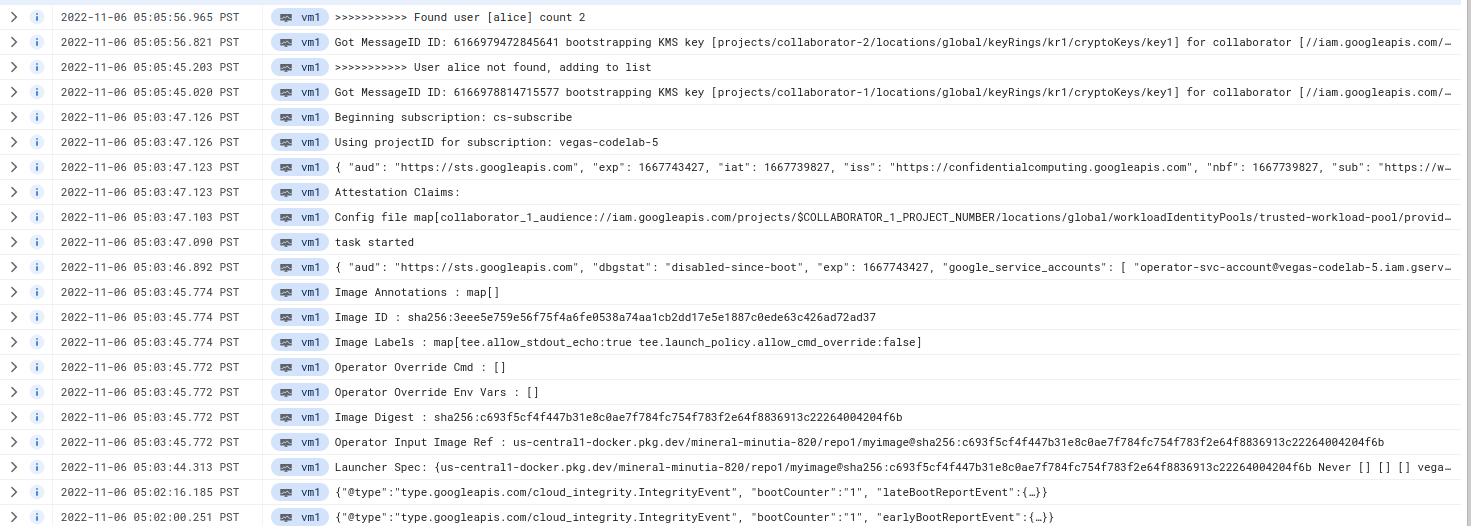
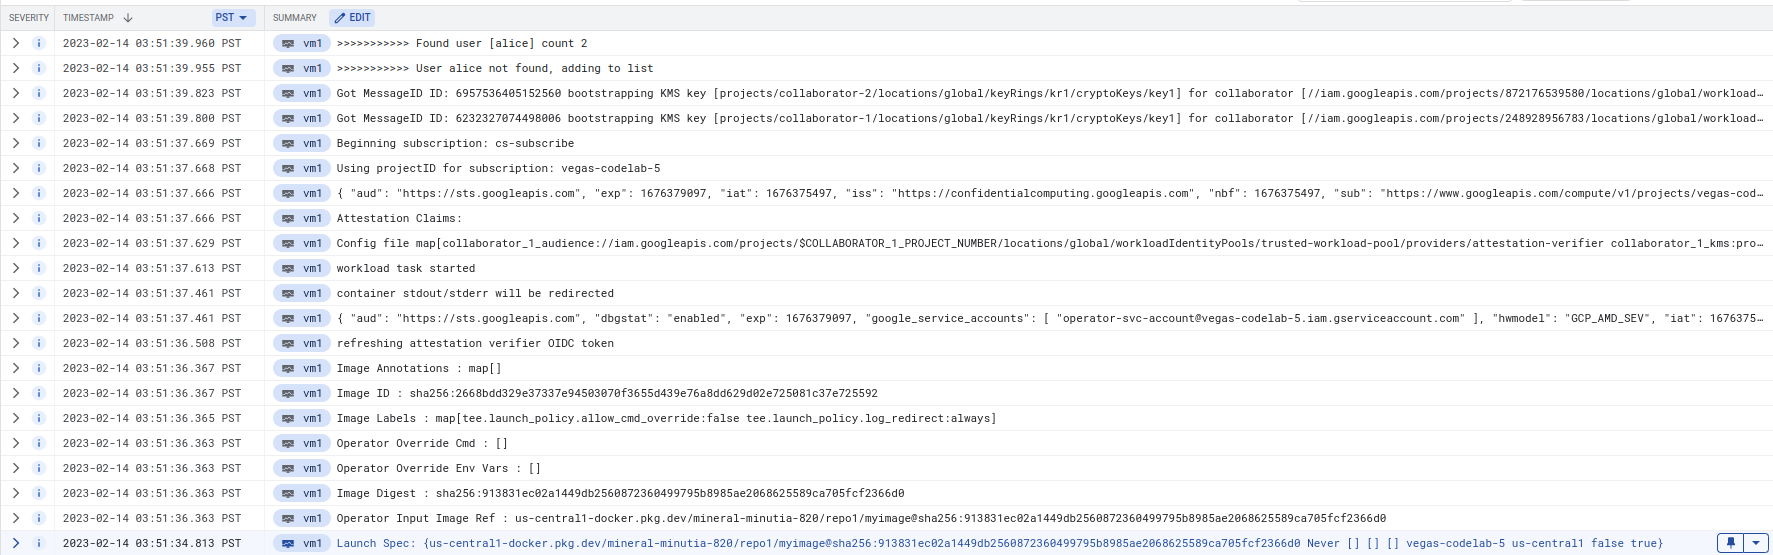
update imagehash; debug image

Changed region(s): [[0.0, 0.0, 1.0, 1.0], [0.7342, 0.0, 0.9177, 0.0304]]

diff --git a/app/main.go b/app/main.go
@@ -31,7 +31,7 @@ var (
 
 const (
 	subscription = "cs-subscribe" // the subscription where both collaborators submit messages; you could also setup 1 topic/subscription for each collaborator as well
-	jwksURL      = "https://confidentialcomputing.googleapis.com/.well-known/jwks"
+	jwksURL      = "https://www.googleapis.com/service_accounts/v1/metadata/jwk/signer@confidentialspace-sign.iam.gserviceaccount.com"
 )
 
 func main() {

diff --git a/README.md b/README.md
@@ -84,6 +84,7 @@ gcloud config configurations create builder
 gcloud config set account builder@builder-domain.com
 gcloud config set project YOUR_BUILDER_PROJECT_ID
 
+gcloud config configurations activate builder
 export BUILDER_PROJECT_ID=`gcloud config get-value core/project`
 export BUILDER_PROJECT_NUMBER=`gcloud projects describe $BUILDER_PROJECT_ID --format='value(projectNumber)'`
 
@@ -92,6 +93,7 @@ gcloud config configurations create operator
 gcloud config set account operatior@operator-domain.com
 gcloud config set project YOUR_OPERATOR_PROJECT_ID
 
+gcloud config configurations activate operator
 export OPERATOR_PROJECT_ID=`gcloud config get-value core/project`
 export OPERATOR_PROJECT_NUMBER=`gcloud projects describe $OPERATOR_PROJECT_ID --format='value(projectNumber)'`
 
@@ -100,6 +102,7 @@ gcloud config configurations create collaborator-1
 gcloud config set account admin@collaborator1-domain.com
 gcloud config set project YOUR_COLLABORATOR_1_PROJECT
 
+gcloud config configurations activate collaborator-1
 export COLLABORATOR_1_PROJECT_ID=`gcloud config get-value core/project`
 export COLLABORATOR_1_PROJECT_NUMBER=`gcloud projects describe $COLLABORATOR_1_PROJECT_ID --format='value(projectNumber)'`
 
@@ -108,6 +111,7 @@ gcloud config configurations create collaborator-2
 gcloud config set account admin@collaborator2-domain.com
 gcloud config set project YOUR_COLLABORATOR_2_PROJECT
 
+gcloud config configurations activate collaborator-1
 export COLLABORATOR_2_PROJECT_ID=`gcloud config get-value core/project`
 export COLLABORATOR_2_PROJECT_NUMBER=`gcloud projects describe $COLLABORATOR_2_PROJECT_ID --format='value(projectNumber)'`
 
@@ -127,7 +131,7 @@ The technique used in this example uses `bazel` to create reproducible container
 
 You don't _have to_ use bazel to build an image (you can just use the `Dockerfile` provided in this example).  If you don't use bazel, you'll get a different image hash though. 
 
-In this example using bazel, the code will always produce a hash of `myimage@sha256:c693f5cf4f447b31e8c0ae7f784fc754f783f2e64f8836913c22264004204f6b`
+In this example using bazel, the code will always produce a hash of `myimage@sha256:913831ec02a1449db2560872360499795b8985ae2068625589ca705fcf2366d0`
 
 For more info, see
 
@@ -261,7 +265,7 @@ gcloud alpha builds list
 # pull the image.  you should see the exact same image hash
 docker pull us-central1-docker.pkg.dev/$BUILDER_PROJECT_ID/repo1/myimage:server
 docker inspect us-central1-docker.pkg.dev/$BUILDER_PROJECT_ID/repo1/myimage:server | jq -r '.[].RepoDigests[]'
-docker inspect us-central1-docker.pkg.dev/$BUILDER_PROJECT_ID/repo1/myimage@sha256:c693f5cf4f447b31e8c0ae7f784fc754f783f2e64f8836913c22264004204f6b
+docker inspect us-central1-docker.pkg.dev/$BUILDER_PROJECT_ID/repo1/myimage@sha256:913831ec02a1449db2560872360499795b8985ae2068625589ca705fcf2366d0
 ```
 
 The cloud build step should give this specific hash
@@ -278,18 +282,22 @@ To check the cosign signatures and attestations, install cosign and then:
 ### verify with cosign
 ## first login to adc as the builder
 ## gcloud auth application-default login
-$ cosign tree      us-central1-docker.pkg.dev/$BUILDER_PROJECT_ID/repo1/myimage@sha256:c693f5cf4f447b31e8c0ae7f784fc754f783f2e64f8836913c22264004204f6b  
+$ cosign tree      us-central1-docker.pkg.dev/$BUILDER_PROJECT_ID/repo1/myimage@sha256:913831ec02a1449db2560872360499795b8985ae2068625589ca705fcf2366d0  
 
-📦 Supply Chain Security Related artifacts for an image: us-central1-docker.pkg.dev/mineral-minutia-820/repo1/myimage@sha256:c693f5cf4f447b31e8c0ae7f784fc754f783f2e64f8836913c22264004204f6b
-└── 💾 Attestations for an image tag: us-central1-docker.pkg.dev/mineral-minutia-820/repo1/myimage:sha256-c693f5cf4f447b31e8c0ae7f784fc754f783f2e64f8836913c22264004204f6b.att
-   └── 🍒 sha256:7999d5510526de794f735c6fa82b1d5dc51b18db671bd77e1b8c0d9a4774ef3f
-└── 🔐 Signatures for an image tag: us-central1-docker.pkg.dev/mineral-minutia-820/repo1/myimage:sha256-c693f5cf4f447b31e8c0ae7f784fc754f783f2e64f8836913c22264004204f6b.sig
-   └── 🍒 sha256:5a150ce6ecec13cb087069eb88183deaecd4dfd17107b41dd62c5c525c8de456
+📦 Supply Chain Security Related artifacts for an image: us-central1-docker.pkg.dev/mineral-minutia-820/repo1/myimage@sha256:913831ec02a1449db2560872360499795b8985ae2068625589ca705fcf2366d0
+└── 💾 Attestations for an image tag: us-central1-docker.pkg.dev/mineral-minutia-820/repo1/myimage:sha256-913831ec02a1449db2560872360499795b8985ae2068625589ca705fcf2366d0.att
+   └── 🍒 sha256:8a2d57eaaf4eb3e928d6f71673e7106d634e6760a8bbd3bcc856d6666693bfaa
+└── 🔐 Signatures for an image tag: us-central1-docker.pkg.dev/mineral-minutia-820/repo1/myimage:sha256-913831ec02a1449db2560872360499795b8985ae2068625589ca705fcf2366d0.sig
+   └── 🍒 sha256:6c207c107481066935b8fe91bdcfd0d2105d240dfa4c143aec8ad0dfa9312463
 ```
 
 which will exist as additional artifacts in the registry
 
 ![images/artifacts.png](images/artifacts.png)
+
+and manifest
+
+![images/manifest.png](images/manifest.png)
 
 ```bash
 # get the public key for the cosigned image
@@ -302,11 +310,11 @@ gcloud kms keys versions get-public-key 1  \
 #   for that use --key gcpkms://projects/$BUILDER_PROJECT_ID/locations/global/keyRings/cosignkr/cryptoKeys/key1/cryptoKeyVersions/1 
 
 cosign verify --key /tmp/kms_pub.pem   \
-   us-central1-docker.pkg.dev/$BUILDER_PROJECT_ID/repo1/myimage@sha256:c693f5cf4f447b31e8c0ae7f784fc754f783f2e64f8836913c22264004204f6b  | jq '.'
+   us-central1-docker.pkg.dev/$BUILDER_PROJECT_ID/repo1/myimage@sha256:913831ec02a1449db2560872360499795b8985ae2068625589ca705fcf2366d0  | jq '.'
 
 # the output for the verify will look like:
 
-Verification for us-central1-docker.pkg.dev/mineral-minutia-820/repo1/myimage@sha256:c693f5cf4f447b31e8c0ae7f784fc754f783f2e64f8836913c22264004204f6b --
+Verification for us-central1-docker.pkg.dev/mineral-minutia-820/repo1/myimage@sha256:913831ec02a1449db2560872360499795b8985ae2068625589ca705fcf2366d0 --
 The following checks were performed on each of these signatures:
   - The cosign claims were validated
   - The signatures were verified against the specified public key
@@ -317,7 +325,7 @@ The following checks were performed on each of these signatures:
         "docker-reference": "us-central1-docker.pkg.dev/mineral-minutia-820/repo1/myimage"
       },
       "image": {
-        "docker-manifest-digest": "sha256:c693f5cf4f447b31e8c0ae7f784fc754f783f2e64f8836913c22264004204f6b"
+        "docker-manifest-digest": "sha256:913831ec02a1449db2560872360499795b8985ae2068625589ca705fcf2366d0"
       },
       "type": "cosign container image signature"
     },
@@ -331,21 +339,21 @@ The following checks were performed on each of these signatures:
 # now verify the attestation that is cross checked with the rego in `policy.rego`
 #  (all that this rego validates is if foo=bar is present in the predicate (which we did during the cloud build steps))
 cosign verify-attestation --key /tmp/kms_pub.pem --policy cosign_verify/policy.rego    \
-      us-central1-docker.pkg.dev/$BUILDER_PROJECT_ID/repo1/myimage@sha256:c693f5cf4f447b31e8c0ae7f784fc754f783f2e64f8836913c22264004204f6b  | jq '.'
+      us-central1-docker.pkg.dev/$BUILDER_PROJECT_ID/repo1/myimage@sha256:913831ec02a1449db2560872360499795b8985ae2068625589ca705fcf2366d0  | jq '.'
 
 ## this gives
 
-Verification for us-central1-docker.pkg.dev/mineral-minutia-820/repo1/myimage@sha256:c693f5cf4f447b31e8c0ae7f784fc754f783f2e64f8836913c22264004204f6b --
+Verification for us-central1-docker.pkg.dev/mineral-minutia-820/repo1/myimage@sha256:913831ec02a1449db2560872360499795b8985ae2068625589ca705fcf2366d0 --
 The following checks were performed on each of these signatures:
   - The cosign claims were validated
   - The signatures were verified against the specified public key
 {
   "payloadType": "application/vnd.in-toto+json",
[2 lines of base64/hex data omitted]
   "signatures": [
     {
       "keyid": "",
[2 lines of base64/hex data omitted]
     }
   ]
 }
@@ -362,25 +370,22 @@ The following checks were performed on each of these signatures:
     {
       "name": "us-central1-docker.pkg.dev/mineral-minutia-820/repo1/myimage",
       "digest": {
[2 lines of base64/hex data omitted]
       }
     }
   ],
   "predicate": {
-    "Data": "{ 
-      \"projectid\": \"mineral-minutia-820\", 
-      \"buildid\": \"dcaf13c9-4d32-4839-b7e9-e04491d17962\", 
-      \"foo\":\"bar\", 
-      \"commitsha\": \"2bd15c38155aaf5e27896a475fc4d47d016e3096\" 
-    }",
-    "Timestamp": "2022-11-06T12:56:50Z"
+    "Data": "{ \"projectid\": \"mineral-minutia-820\", \"buildid\": \"c79b8359-7515-4a16-a097-de4860ff3eda\", \"foo\":\"bar\", \"commitsha\": \"78d3a24ea6048ef221fb782b3c1f072304637f22\" }",
+    "Timestamp": "2023-02-14T11:42:31Z"
   }
 }
 ```
 
+![images/manifest_payload.png](images/manifest_payload.png)
+
 ### Operator
 
-Once the image is built and each collaborator is in agreement that the code contained in image `us-central1-docker.pkg.dev/$BUILDER_PROJECT_ID/repo1/myimage@sha256:c693f5cf4f447b31e8c0ae7f784fc754f783f2e64f8836913c22264004204f6b ` isn't going to do anything malicious like exfiltrate their precious data, they can authorize that container to run in `Confidential Space` managed by an Operator.
+Once the image is built and each collaborator is in agreement that the code contained in image `us-central1-docker.pkg.dev/$BUILDER_PROJECT_ID/repo1/myimage@sha256:913831ec02a1449db2560872360499795b8985ae2068625589ca705fcf2366d0 ` isn't going to do anything malicious like exfiltrate their precious data, they can authorize that container to run in `Confidential Space` managed by an Operator.
 
 The operator in this case simply constructs and manages GCP resources such that a Confidential Space VM within their infra will run this attested container only.
 
@@ -471,11 +476,13 @@ gcloud iam workload-identity-pools create trusted-workload-pool --location="glob
 
 # create a pool that authorizes requests where the identity token was issued by "Confidential Space's" OIDC issuer https://confidentialcomputing.googleapis.com
 ##  and which asserts its running on a CONFIDENTIAL_SPACE in the operator's project using the operator's service account we setup earlier
+# note the following allows the **debug** conf-space image;  to allow the production, set int(assertion.swversion) >= 1
+## prod images do not allow stdout/stderr logging so as a demo, its enabled here
 gcloud iam workload-identity-pools providers create-oidc attestation-verifier \
     --location="global"     --workload-identity-pool="trusted-workload-pool"   \
       --issuer-uri="https://confidentialcomputing.googleapis.com/"     --allowed-audiences="https://sts.googleapis.com" \
           --attribute-mapping="google.subject=assertion.sub,attribute.image_reference=assertion.submods.container.image_reference"  \
-             --attribute-condition="assertion.swname=='CONFIDENTIAL_SPACE' && int(assertion.swversion) >= 1 && assertion.submods.gce.project_id=='$OPERATOR_PROJECT_ID' && 'operator-svc-account@$OPERATOR_PROJECT_ID.iam.gserviceaccount.com' in assertion.google_service_accounts"
+             --attribute-condition="assertion.swname=='CONFIDENTIAL_SPACE' && int(assertion.swversion) >= 0 && assertion.submods.gce.project_id=='$OPERATOR_PROJECT_ID' && 'operator-svc-account@$OPERATOR_PROJECT_ID.iam.gserviceaccount.com' in assertion.google_service_accounts"
 
 # create a kms key and keyring
 gcloud kms keyrings create kr1 --location=global --project $COLLABORATOR_1_PROJECT_ID
@@ -489,7 +496,7 @@ gcloud kms keys add-iam-policy-binding key1        --keyring=kr1 --location=glob
 ## we've already performed corse grain authorization on the workload pool and this step
 ## applies fine grain control to a specific image to decrypt data
 gcloud kms keys add-iam-policy-binding key1        --keyring=kr1 --location=global --project $COLLABORATOR_1_PROJECT_ID    \
-     --member="principalSet://iam.googleapis.com/projects/$COLLABORATOR_1_PROJECT_NUMBER/locations/global/workloadIdentityPools/trusted-workload-pool/attribute.image_reference/us-central1-docker.pkg.dev/$BUILDER_PROJECT_ID/repo1/myimage@sha256:c693f5cf4f447b31e8c0ae7f784fc754f783f2e64f8836913c22264004204f6b"  \
+     --member="principalSet://iam.googleapis.com/projects/$COLLABORATOR_1_PROJECT_NUMBER/locations/global/workloadIdentityPools/trusted-workload-pool/attribute.image_reference/us-central1-docker.pkg.dev/$BUILDER_PROJECT_ID/repo1/myimage@sha256:913831ec02a1449db2560872360499795b8985ae2068625589ca705fcf2366d0"  \
      --role=roles/cloudkms.cryptoKeyDecrypter
 ```
 
@@ -502,7 +509,7 @@ In other words, the use of the KMS key is now bound to the operator's project wh
 Access is granted to an identity bound to the image:
 
 ```bash
-principalSet://iam.googleapis.com/projects/$COLLABORATOR_1_PROJECT_NUMBER/locations/global/workloadIdentityPools/trusted-workload-pool/attribute.image_reference/us-central1-docker.pkg.dev/$BUILDER_PROJECT_ID/repo1/myimage@sha256:c693f5cf4f447b31e8c0ae7f784fc754f783f2e64f8836913c22264004204f6b
+principalSet://iam.googleapis.com/projects/$COLLABORATOR_1_PROJECT_NUMBER/locations/global/workloadIdentityPools/trusted-workload-pool/attribute.image_reference/us-central1-docker.pkg.dev/$BUILDER_PROJECT_ID/repo1/myimage@sha256:913831ec02a1449db2560872360499795b8985ae2068625589ca705fcf2366d0
 ```
 
 We could have configured the entire workload provider to mandate that any access to any resource must include that specific image has.  This demo, however, abstracts it to the resource (KMS key) binding.  This was done to allow more operational flexibility: if the image builder creates a new image hash, each collaborator can more easily replace the IAM binding on specific resources instead of redefining the entire providers constraints.
@@ -529,11 +536,13 @@ gcloud services enable \
 
 gcloud iam workload-identity-pools create trusted-workload-pool --location="global"
 
+# note the following allows the **debug** conf-space image;  to allow the production, set int(assertion.swversion) >= 1
+## prod images do not allow stdout/stderr logging so as a demo, its enabled here
 gcloud iam workload-identity-pools providers create-oidc attestation-verifier \
     --location="global"     --workload-identity-pool="trusted-workload-pool"   \
       --issuer-uri="https://confidentialcomputing.googleapis.com/"     --allowed-audiences="https://sts.googleapis.com" \
           --attribute-mapping="google.subject=assertion.sub,attribute.image_reference=assertion.submods.container.image_reference"  \
-             --attribute-condition="assertion.swname=='CONFIDENTIAL_SPACE' && int(assertion.swversion) >= 1 && assertion.submods.gce.project_id=='$OPERATOR_PROJECT_ID' && 'operator-svc-account@$OPERATOR_PROJECT_ID.iam.gserviceaccount.com' in assertion.google_service_accounts"
+             --attribute-condition="assertion.swname=='CONFIDENTIAL_SPACE' && int(assertion.swversion) >= 0 && assertion.submods.gce.project_id=='$OPERATOR_PROJECT_ID' && 'operator-svc-account@$OPERATOR_PROJECT_ID.iam.gserviceaccount.com' in assertion.google_service_accounts"
 
 gcloud kms keyrings create kr1 --location=global --project $COLLABORATOR_2_PROJECT_ID
 gcloud kms keys create --keyring=kr1 --location=global --purpose=encryption  key1
@@ -543,7 +552,7 @@ gcloud kms keys add-iam-policy-binding key1        --keyring=kr1 --location=glob
      --member="user:$COLLABORATOR_2_GCLOUD_USER"   --role=roles/cloudkms.cryptoKeyEncrypter
 
 gcloud kms keys add-iam-policy-binding key1        --keyring=kr1 --location=global --project $COLLABORATOR_2_PROJECT_ID    \
-     --member="principalSet://iam.googleapis.com/projects/$COLLABORATOR_2_PROJECT_NUMBER/locations/global/workloadIdentityPools/trusted-workload-pool/attribute.image_reference/us-central1-docker.pkg.dev/$BUILDER_PROJECT_ID/repo1/myimage@sha256:c693f5cf4f447b31e8c0ae7f784fc754f783f2e64f8836913c22264004204f6b" \
+     --member="principalSet://iam.googleapis.com/projects/$COLLABORATOR_2_PROJECT_NUMBER/locations/global/workloadIdentityPools/trusted-workload-pool/attribute.image_reference/us-central1-docker.pkg.dev/$BUILDER_PROJECT_ID/repo1/myimage@sha256:913831ec02a1449db2560872360499795b8985ae2068625589ca705fcf2366d0" \
      --role=roles/cloudkms.cryptoKeyDecrypter
 ```
 
@@ -580,16 +589,23 @@ gcloud pubsub topics add-iam-policy-binding cs-topic \
   --member="user:$COLLABORATOR_2_GCLOUD_USER" \
   --role=roles/pubsub.publisher 
 
+## allow the vm itself that has that service account permissions access to the attestation service
+### note, we're applying this to all VM's in the project that use this specific service account
+gcloud projects add-iam-policy-binding $OPERATOR_PROJECT_ID \
+      --member="serviceAccount:operator-svc-account@$OPERATOR_PROJECT_ID.iam.gserviceaccount.com" \
+      --role=roles/confidentialcomputing.workloadUser
+
 # create the confidential space VM in our own subnet and instruct it to run the specific image hash from the builder's project 
 # note, i'm using the image-family=confidential-space here which does not allow SSH...we've also specified that this vm has no external address
 ## note, the following does _not_ use the debug confidential image (image-family=confidential-space-debug)
+### https://cloud.google.com/compute/confidential-vm/docs/reference/cs-options
 gcloud compute instances create vm1 --confidential-compute \
   --shielded-secure-boot \
   --maintenance-policy=TERMINATE --scopes=cloud-platform  --zone=us-central1-a \
   --image-project=confidential-space-images \
-  --image-family=confidential-space --network=teenetwork --no-address \
+  --image-family=confidential-space-debug --network=teenetwork --no-address \
   --service-account=operator-svc-account@$OPERATOR_PROJECT_ID.iam.gserviceaccount.com \
-  --metadata ^~^tee-image-reference=us-central1-docker.pkg.dev/$BUILDER_PROJECT_ID/repo1/myimage@sha256:c693f5cf4f447b31e8c0ae7f784fc754f783f2e64f8836913c22264004204f6b~tee-restart-policy=Never
+  --metadata ^~^tee-image-reference=us-central1-docker.pkg.dev/$BUILDER_PROJECT_ID/repo1/myimage@sha256:913831ec02a1449db2560872360499795b8985ae2068625589ca705fcf2366d0~tee-restart-policy=Never~tee-container-log-redirect=true
 
 ## for ssh access if --image-family=confidential-space-debug is used and you've defined the swversion>0 claim in the pool/provider definition
 # gcloud compute firewall-rules create allow-ingress-from-iap --network teenetwork --direction=INGRESS --action=allow --rules=tcp:22 --source-ranges=35.235.240.0/20
@@ -719,7 +735,7 @@ title: collaborator_1_perimeter
 Note, VPC-SC "ingressPolicy->ingressFrom->identity" does not support `principal://` or `principalSet://` get so we have to enable `ANY_IDENTITY`.  Ideally, we could tune the identity to:
 
 ```bash
-principalSet://iam.googleapis.com/projects/$COLLABORATOR1_PROJECT_NUMBER/locations/global/workloadIdentityPools/trusted-workload-pool/attribute.image_reference/us-central1-docker.pkg.dev/$BUILDER_PROJECT_ID/repo1/myimage@sha256:c693f5cf4f447b31e8c0ae7f784fc754f783f2e64f8836913c22264004204f6b
+principalSet://iam.googleapis.com/projects/$COLLABORATOR1_PROJECT_NUMBER/locations/global/workloadIdentityPools/trusted-workload-pool/attribute.image_reference/us-central1-docker.pkg.dev/$BUILDER_PROJECT_ID/repo1/myimage@sha256:913831ec02a1449db2560872360499795b8985ae2068625589ca705fcf2366d0
 ```
 
 If the TEE attempts to access the STS or KMS endpoint for any collaborator who _has not_ authorized the project for ingress, they would see a VPC-SC error at the level where the API is invoked.  In the following, the even the token grant fails
@@ -769,8 +785,8 @@ Instead, you can generate a JWT token using another KMS key you have access to t
       "hardware_technology": "AMD_SEV"
     },
     "container": {
-      "image_reference": "us-central1-docker.pkg.dev/mineral-minutia-820/repo1/myimage@sha256:c693f5cf4f447b31e8c0ae7f784fc754f783f2e64f8836913c22264004204f6b",
-      "image_digest": "sha256:c693f5cf4f447b31e8c0ae7f784fc754f783f2e64f8836913c22264004204f6b",
+      "image_reference": "us-central1-docker.pkg.dev/mineral-minutia-820/repo1/myimage@sha256:913831ec02a1449db2560872360499795b8985ae2068625589ca705fcf2366d0",
+      "image_digest": "sha256:913831ec02a1449db2560872360499795b8985ae2068625589ca705fcf2366d0",
       "restart_policy": "Never",
       "image_id": "sha256:3eee5e759e56f75f4a6fe0538a74aa1cb2dd17e5e1887c0ede63c426ad72ad37",
       "env_override": null,
@@ -806,8 +822,8 @@ Instead, you can generate a JWT token using another KMS key you have access to t
   ],
   "submods": {
     "container": {
-      "image_reference": "us-central1-docker.pkg.dev/mineral-minutia-820/repo1/myimage@sha256:c693f5cf4f447b31e8c0ae7f784fc754f783f2e64f8836913c22264004204f6b",
-      "image_digest": "sha256:c693f5cf4f447b31e8c0ae7f784fc754f783f2e64f8836913c22264004204f6b",
+      "image_reference": "us-central1-docker.pkg.dev/mineral-minutia-820/repo1/myimage@sha256:913831ec02a1449db2560872360499795b8985ae2068625589ca705fcf2366d0",
+      "image_digest": "sha256:913831ec02a1449db2560872360499795b8985ae2068625589ca705fcf2366d0",
       "restart_policy": "Never",
       "image_id": "sha256:3eee5e759e56f75f4a6fe0538a74aa1cb2dd17e5e1887c0ede63c426ad72ad37",
       "env_override": null,
@@ -915,7 +931,7 @@ also
 ```golang
 const (
 	subscription = "cs-subscribe"
-	//jwksURL      = "https://confidentialcomputing.googleapis.com/.well-known/jwks"
+	//jwksURL      = "https://www.googleapis.com/service_accounts/v1/metadata/jwk/signer@confidentialspace-sign.iam.gserviceaccount.com"
 	jwksURL = "https://www.googleapis.com/oauth2/v3/certs"
 )
 ```
@@ -1219,7 +1235,7 @@ Anyway, here is a sample Vault JWT configuration that would authorize a specific
 
 ```hcl
 vault write auth/jwt/config \
-    jwks_url="https://confidentialcomputing.googleapis.com/.well-known/jwks" \
+    jwks_url="https://www.googleapis.com/service_accounts/v1/metadata/jwk/signer@confidentialspace-sign.iam.gserviceaccount.com" \
     bound_issuer="https://confidentialcomputing.googleapis.com/"
 ```
 
@@ -1246,7 +1262,7 @@ vault write auth/jwt/role/my-jwt-role -<<EOF
     "hwmodel": "GCP_AMD_SEV",
     "swname": "CONFIDENTIAL_SPACE",
     "swversion": "1",
-    "/submods/container/image_digest": ["sha256:c693f5cf4f447b31e8c0ae7f784fc754f783f2e64f8836913c22264004204f6b"],
+    "/submods/container/image_digest": ["sha256:913831ec02a1449db2560872360499795b8985ae2068625589ca705fcf2366d0"],
     "/submods/gce/project_id": ["$OPERATOR_PROJECT_ID"],
     "google_service_accounts":["operator-svc-account@$OPERATOR_PROJECT_ID.iam.gserviceaccount.com"]
   }  
